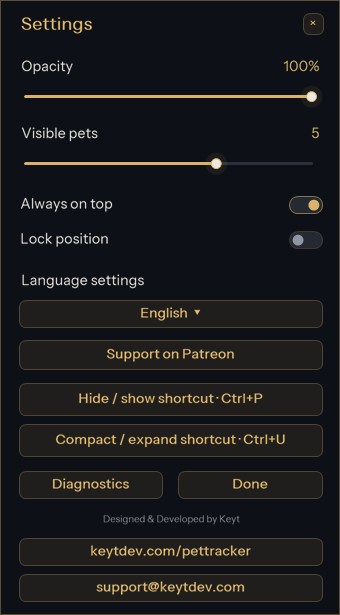
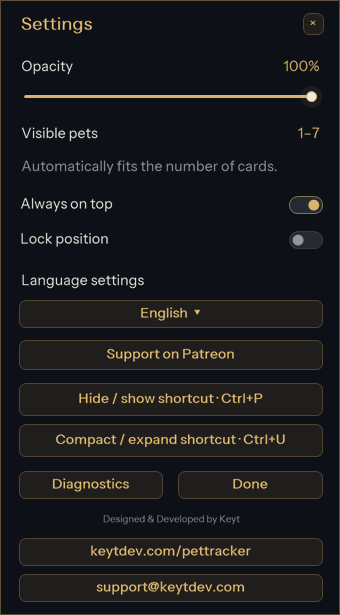
Release 1.2.9: automatic card height and 85-100 percent opacity

Changed region(s): [[0.0588, 0.1854, 0.9412, 0.278]]

diff --git a/src/PetTracker.App/HelpText.cs b/src/PetTracker.App/HelpText.cs
@@ -4,6 +4,7 @@ public static class HelpText
 {
     private static readonly Dictionary<string,string[]> Texts=new()
     {
+        ["autoHeight"]=["Kart sayısına göre otomatik boyutlanır.","Automatically fits the number of cards.","Passt sich automatisch der Kartenzahl an.","Размер автоматически следует числу карточек.","Se ajusta automáticamente al número de tarjetas.","S’adapte automatiquement au nombre de cartes.","Ajusta-se automaticamente ao número de cartões.","يتغير الحجم تلقائياً حسب عدد البطاقات.","कार्ड की संख्या के अनुसार आकार अपने आप बदलता है।","自动适应卡片数量。"],
         ["farmTitle"]=["Farmlanabilir petler","Farmable pets","Farmbare Pets","Питомцы для фарма","Mascotas farmeables","Pets à farmer","Pets para farmar","حيوانات قابلة للتجميع","फ़ार्म किए जा सकने वाले पेट","可刷取宠物"],
         ["farm"]=["Pet Atlası’nda Farmlanabilir petler kategorisini seç. Bölge filtresiyle o haritadaki petleri gör. Tüm farmlanabilir konumları göster seçeneği, seçili haritadaki bütün farm noktalarını birlikte gösterir. Noktalar kayıtlı konumlardır; canlı spawn garantisi değildir.","Choose Farmable pets in Pet Atlas, then filter by region. Show all farmable locations displays every recorded farming point on the selected map together. These are recorded locations, not a guarantee of a live spawn.","Im Pet Atlas Farmbare Pets und eine Region wählen. Alle Farm-Orte anzeigen blendet sämtliche gespeicherten Farm-Punkte der gewählten Karte ein. Gespeicherte Orte garantieren keinen aktuellen Spawn.","В Атласе выберите питомцев для фарма и регион. «Все места фарма» показывает вместе все записанные точки выбранной карты. Это сохранённые места, а не гарантия живого спавна.","Elige Mascotas farmeables y una región en el Atlas. Mostrar todas las ubicaciones reúne los puntos registrados del mapa elegido. No garantiza que haya un enemigo vivo.","Choisissez les pets à farmer et une région dans l’Atlas. Afficher tous les lieux réunit les points enregistrés de la carte sélectionnée. Ces lieux ne garantissent pas une apparition en direct.","Escolha pets para farmar e uma região no Atlas. Mostrar todos os locais reúne os pontos registrados no mapa selecionado. Os locais não garantem um spawn ativo.","اختر الحيوانات القابلة للتجميع ثم المنطقة في الأطلس. إظهار جميع المواقع يعرض النقاط المسجلة على الخريطة المختارة معاً. المواقع لا تضمن وجود عدو حي.","एटलस में फ़ार्म योग्य पेट और क्षेत्र चुनें। सभी फ़ार्म स्थान विकल्प चुने मानचित्र के दर्ज स्थान एक साथ दिखाता है। ये लाइव स्पॉन की गारंटी नहीं हैं।","在图鉴中选择可刷取宠物，再筛选地区。显示全部刷取位置会同时显示当前地图的所有已记录地点。这些地点不保证当前有怪物。"],
         ["regionsTitle"]=["Bölge ve elde etme bilgileri","Regions and acquisition","Regionen und Bezugsquellen","Регионы и получение","Regiones y obtención","Régions et obtention","Regiões e obtenção","المناطق وطرق الحصول","क्षेत्र और प्राप्ति","地区与获取方式"],
@@ -19,7 +20,7 @@ public static class HelpText
         ["identityTitle"]=["Önce eşitle","Sync first","Zuerst synchronisieren","Сначала синхронизация","Sincroniza primero","Synchronisez d’abord","Sincronize primeiro","زامن أولاً","पहले सिंक करें","先同步"],
         ["identity"]=["Tracker açıkken karakter seçimine dönüp giriş yap. Kırmızı uyarı varsa sayaç yaklaşık olabilir; yeni collection gelince düzelir.","With the tracker open, relog through Character Select. A red warning means counts may be inaccurate; a new collection corrects them.","Mit offenem Tracker über die Charakterauswahl neu einloggen. Rot bedeutet mögliche Ungenauigkeit; eine neue Sammlung korrigiert sie.","Войдите через выбор персонажа при открытом трекере. Красное предупреждение: счёт может быть неточным; новая коллекция исправит его.","Vuelve a entrar desde selección de personaje con el tracker abierto. La alerta roja indica posibles errores; una nueva colección los corrige.","Reconnectez-vous via la sélection du personnage, tracker ouvert. Un avertissement rouge signale une incertitude ; la nouvelle collection la corrige.","Entre novamente pela seleção de personagem com o tracker aberto. O aviso vermelho indica possível imprecisão; a nova coleção corrige.","أعد الدخول من اختيار الشخصية والمتتبع مفتوح. التحذير الأحمر يعني احتمال عدم دقة العداد؛ مجموعة جديدة تصححه.","ट्रैकर खुला रखकर चरित्र चयन से दोबारा प्रवेश करें। लाल चेतावनी पर गिनती गलत हो सकती है; नया संग्रह उसे सुधारता है।","打开追踪器后从角色选择重新登录。红色警告表示计数可能不准确；新的收藏数据会校正。"],
         ["cardsTitle"]=["Kartlarını yönet","Manage your cards","Karten verwalten","Управляйте карточками","Gestiona tus tarjetas","Gérez vos cartes","Gerencie seus cartões","إدارة البطاقات","कार्ड व्यवस्थित करें","管理卡片"],
-        ["cards"]=["Pin kartı sabit tutar. Pini kaldırmak kartı silmez; Delete/Clear kaldırır. Sol oklarla sırala. Yeni petler pencereyi en fazla 7 karta büyütür.","Pin keeps a card. Unpin does not remove it; Delete/Clear does. Reorder with the left arrows. New pets grow the window up to 7 cards.","Pin hält die Karte. Entpinnen löscht sie nicht; Delete/Clear schon. Links sortieren. Neue Pets vergrößern auf maximal 7 Karten.","Закрепление сохраняет карточку. Открепление не удаляет; Delete/Clear удаляет. Порядок — стрелками слева. Максимум 7 видимых карточек.","Fijar conserva la tarjeta. Desfijar no la elimina; Delete/Clear sí. Ordena con las flechas. La ventana crece hasta 7 tarjetas.","Épingler conserve la carte. Désépingler ne la supprime pas ; Delete/Clear oui. Triez avec les flèches. Jusqu’à 7 cartes visibles.","Fixar mantém o cartão. Desafixar não remove; Delete/Clear remove. Ordene pelas setas. A janela cresce até 7 cartões.","التثبيت يبقي البطاقة. إلغاء التثبيت لا يحذفها؛ Delete/Clear يحذفها. رتّب بالأسهم. تكبر النافذة حتى 7 بطاقات.","पिन कार्ड रखता है। अनपिन से नहीं हटता; Delete/Clear से हटता है। बाएँ तीर से क्रम बदलें। अधिकतम 7 कार्ड दिखेंगे।","固定可保留卡片。取消固定不会移除；Delete/Clear 才会移除。用左侧箭头排序。窗口最多显示7张卡片。"],
+        ["cards"]=["Pin kartı sabit tutar. Pini kaldırmak kartı silmez; Delete/Clear kaldırır. Sol oklarla sırala. Pencere kart sayısına göre 1–7 kart arasında büyür ve küçülür; boşken 1 kartlık kalır.","Pin keeps a card. Unpin does not remove it; Delete/Clear does. Reorder with the left arrows. The window grows and shrinks to fit 1–7 cards; empty stays one card tall.","Pin hält die Karte. Entpinnen löscht sie nicht; Delete/Clear schon. Links sortieren. Das Fenster wächst und schrumpft passend für 1–7 Karten; leer bleibt es eine Karte hoch.","Закрепление сохраняет карточку. Открепление не удаляет; Delete/Clear удаляет. Порядок — стрелками слева. Окно растёт и уменьшается под 1–7 карточек; пустое остаётся высотой в одну карточку.","Fijar conserva la tarjeta. Desfijar no la elimina; Delete/Clear sí. Ordena con las flechas. La ventana crece y se reduce entre 1 y 7 tarjetas; vacía mantiene altura de una.","Épingler conserve la carte. Désépingler ne la supprime pas ; Delete/Clear oui. Triez avec les flèches. La fenêtre grandit et rétrécit pour 1 à 7 cartes ; vide, elle garde la hauteur d’une carte.","Fixar mantém o cartão. Desafixar não remove; Delete/Clear remove. Ordene pelas setas. A janela cresce e diminui entre 1 e 7 cartões; vazia, mantém altura de um.","التثبيت يبقي البطاقة. إلغاء التثبيت لا يحذفها؛ Delete/Clear يحذفها. رتّب بالأسهم. تكبر النافذة وتصغر لتناسب 1–7 بطاقات؛ فارغة تبقى بارتفاع بطاقة واحدة.","पिन कार्ड रखता है। अनपिन से नहीं हटता; Delete/Clear से हटता है। बाएँ तीर से क्रम बदलें। खिड़की 1–7 कार्ड के अनुसार बढ़ती और घटती है; खाली होने पर एक कार्ड जितनी रहती है।","固定可保留卡片。取消固定不会移除；Delete/Clear 才会移除。用左侧箭头排序。窗口随卡片数量在1至7张之间自动增减；无卡片时保留一张卡片的高度。"],
         ["atlasTitle"]=["Petleri bul","Find your pets","Pets finden","Найдите питомцев","Encuentra tus mascotas","Trouvez vos pets","Encontre seus pets","اعثر على الحيوانات","पेट खोजें","查找宠物"],
         ["atlas"]=["Dünya ikonuna bas. Peti seçerek bilgi kartını aç; Haritada göster ile bölge seç. Tüm farmlanabilir konumları ve yuvarlak portreleri tiklerden aç.","Click the globe. Select a pet for its info card; Show on map chooses a region. Enable all farmable locations and circular portraits with the checkboxes.","Globus anklicken. Pet wählen für Infos; Auf Karte zeigen wählt die Region. Farm-Orte und runde Porträts per Häkchen aktivieren.","Нажмите глобус. Выберите питомца для сведений; «На карте» выбирает регион. Фарм-места и портреты включаются флажками.","Pulsa el globo. Selecciona una mascota para ver su ficha; Mostrar en mapa elige región. Activa ubicaciones y retratos con las casillas.","Cliquez sur le globe. Choisissez un pet pour sa fiche ; Afficher sur la carte choisit la région. Activez les lieux et portraits via les cases.","Clique no globo. Selecione um pet para informações; Mostrar no mapa escolhe a região. Ative locais e retratos nas caixas.","اضغط الكرة الأرضية. اختر حيواناً لبطاقته؛ العرض على الخريطة يختار المنطقة. فعّل مواقع التجميع والصور من المربعات.","ग्लोब दबाएँ। जानकारी के लिए पेट चुनें; मानचित्र विकल्प से क्षेत्र चुनें। चेकबॉक्स से सभी फ़ार्म स्थान और गोल चित्र दिखाएँ।","点击地球图标。选择宠物查看信息卡；在地图显示可选择区域。勾选显示全部可收集位置和圆形头像。"],
         ["keysTitle"]=["Gizle veya küçült","Hide or compact","Ausblenden oder verkleinern","Скрыть или свернуть","Oculta o reduce","Masquer ou réduire","Oculte ou reduza","إخفاء أو تصغير","छिपाएँ या छोटा करें","隐藏或缩小"],

diff --git a/src/PetTracker.App/OverlayForm.cs b/src/PetTracker.App/OverlayForm.cs
@@ -37,7 +37,6 @@ public sealed class OverlayForm : Form
     private string? handbookLanguage;
     private float scroll,scrollTarget;
     private int wheelDelta;
-    private HashSet<int> lastVisible=[];
     private double lastPump;
     private double revealStart;private bool revealing;
     private int hoveredCard=-1;
@@ -157,6 +156,7 @@ public sealed class OverlayForm : Form
     }
     private void ApplyAppearance()
     {
+        preferences.VisibleCards=OverlayHeight.Fit(visibleIds.Length);
         preferences.Validate();
         if(compactMode){ApplyCompactSize();return;}
         var width=(int)Math.Round(FixedWidth*DeviceDpi/96f);
@@ -193,14 +193,9 @@ public sealed class OverlayForm : Form
         }
         if(m.Msg==0x112&&compactMode&&(m.WParam.ToInt64()&0xFFF0)==0xF000)return;
         if(m.Msg==0x112&&preferences is not null&&preferences.Locked&&(m.WParam.ToInt64()&0xFFF0)==0xF010)return;
-        if(m.Msg==0x20&&crystal is not null){var pointer=PointToClient(MousePosition);Cursor.Current=pointer.Y>=ClientSize.Height-18&&!compactMode?Cursors.SizeNS:hovered.Length>0?brightCrystal.Pointer:crystal.Pointer;m.Result=(IntPtr)1;return;}
+        if(m.Msg==0x20&&crystal is not null){Cursor.Current=hovered.Length>0?brightCrystal.Pointer:crystal.Pointer;m.Result=(IntPtr)1;return;}
         base.WndProc(ref m);
-        if(m.Msg==0x84&&m.Result.ToInt32()==1&&!compactMode)
-        {
-            var packed=m.LParam.ToInt64();var point=PointToClient(new(unchecked((short)(packed&0xffff)),unchecked((short)((packed>>16)&0xffff))));
-            if(point.Y>=ClientSize.Height-18)m.Result=(IntPtr)15;
-        }
-        if(m.Msg==0x232&&preferences is not null){try{if(!compactMode){preferences.VisibleCards=OverlayHeight.CardsFromPixels((int)Math.Round(Height/(DeviceDpi/96f)));ApplyAppearance();}EnsureVisible();SaveAppearance();}catch(Exception ex){Error(ex);}}
+        if(m.Msg==0x232&&preferences is not null){try{if(!compactMode)ApplyAppearance();EnsureVisible();SaveAppearance();}catch(Exception ex){Error(ex);}}
     }
     protected override void OnDpiChanged(DpiChangedEventArgs e){base.OnDpiChanged(e);if(compactMode)ApplyCompactSize();else ApplyAppearance();EnsureVisible();}
     protected override void OnShown(EventArgs e)
@@ -216,13 +211,11 @@ public sealed class OverlayForm : Form
         var ids=controller.Tracker.HasCurrent?controller.Tracker.VisibleIds.ToArray():[];
         var orderChanged=!visibleIds.SequenceEqual(ids);
         visibleIds=ids;
-        if(ids.Any(id=>!lastVisible.Contains(id)))
-        {
-            var slots=OverlayHeight.Grow(preferences.VisibleCards,ids.Length);
-            if(slots!=preferences.VisibleCards){preferences.VisibleCards=slots;ApplyAppearance();EnsureVisible();SaveAppearance();}
-        }
-        if(orderChanged){lastVisible=ids.ToHashSet();motion.Sync(ids,Now);timer.Interval=8;}
+        var slots=OverlayHeight.Fit(ids.Length);
+        if(slots!=preferences.VisibleCards){preferences.VisibleCards=slots;ApplyAppearance();EnsureVisible();SaveAppearance();}
+        if(orderChanged){motion.Sync(ids,Now);timer.Interval=8;}
         scrollTarget=SnapScroll(scrollTarget);
+        scroll=Math.Clamp(scroll,0,MaximumScroll);
     }
     protected override void OnMouseWheel(MouseEventArgs e){base.OnMouseWheel(e);wheelDelta+=e.Delta;var steps=wheelDelta/120;wheelDelta%=120;scrollTarget=SnapScroll(scrollTarget-steps*(CardHeight+CardGap));timer.Interval=8;}
     protected override void OnPaint(PaintEventArgs e)
@@ -272,7 +265,6 @@ public sealed class OverlayForm : Form
         using var dot=new SolidBrush(warning?warningColor:exact?Color.FromArgb(139,192,154):PremiumTheme.Gold);g.FillEllipse(dot,12,footer+11,4,4);
         var status=!controller.LiveMode?T("demo"):exact?T("exact"):controller.Session.IdentityKnown?T("uncertain"):T("snapshot");
         DrawText(g,warning?T("resyncWarning"):status,new(23,footer+3,DesignWidth-40,warning?32:18),warning?7.5f:6.8f,warning?warningColor:exact?PremiumTheme.Ink:PremiumTheme.Gold);
-        using(var grip=new Pen(Color.FromArgb(hovered=="resize"?210:110,PremiumTheme.Gold),1.4f)){var gx=DesignWidth/2f;g.DrawLine(grip,gx-12,LogicalHeight-4,gx+12,LogicalHeight-4);g.DrawLine(grip,gx-7,LogicalHeight-7,gx+7,LogicalHeight-7);}
         if(!warning){using var creditRule=new Pen(Color.FromArgb(24,PremiumTheme.Gold));g.DrawLine(creditRule,43,footer+23,DesignWidth-43,footer+23);
         PremiumTheme.Text(g,"Designed & Developed by Keyt",new(15,footer+24,DesignWidth-30,11),5.9f,Color.FromArgb(149,142,136),"en",align:StringAlignment.Center);}
     }
@@ -382,7 +374,6 @@ public sealed class OverlayForm : Form
     {
         base.OnMouseMove(e);var point=new PointF(e.X/ScaleFactor,e.Y/ScaleFactor);
         if(dragScroll){scrollTarget=SnapScroll(Math.Clamp((point.Y-HeaderHeight)/Viewport,0,1)*MaximumScroll);return;}
-        if(!compactMode&&e.Y>=ClientSize.Height-18){hoveredCard=-1;hovered="resize";Cursor=Cursors.SizeNS;tips.SetToolTip(this,StartupText.Get(Language,"resize"));return;}
         var hit=Hit(point);hoveredCard=hit.Id>0?hit.Id:-1;var next=hit.Action is null or "disabled"?"":hit.Action+hit.Id;
         if(next!=hovered)
         {

diff --git a/tests/PetTracker.UiTests/OverlayRenderTests.cs b/tests/PetTracker.UiTests/OverlayRenderTests.cs
@@ -11,6 +11,62 @@ namespace PetTracker.UiTests;
 public sealed class OverlayRenderTests(ITestOutputHelper output)
 {
     [Fact]
+    public void OpacitySliderUsesItsWholeTrackFor85To100Percent()
+    {
+        OnSta(()=>
+        {
+            var preferences=new OverlayPreferences();var changes=0;
+            using var settings=new OverlaySettingsForm(preferences,Cursors.Default,7,()=>changes++,()=>{});
+            var slider=Assert.Single(settings.Controls.OfType<PremiumSlider>());
+            Assert.Equal(85,slider.Minimum);Assert.Equal(100,slider.Maximum);
+            var update=typeof(PremiumSlider).GetMethod("UpdateValue",BindingFlags.Instance|BindingFlags.NonPublic)!;
+            update.Invoke(slider,[0]);Assert.Equal(85,preferences.OpacityPercent);
+            update.Invoke(slider,[slider.Width/2]);Assert.InRange(preferences.OpacityPercent,92,93);
+            update.Invoke(slider,[slider.Width]);Assert.Equal(100,preferences.OpacityPercent);
+            Assert.Equal(3,changes);
+        });
+    }
+
+    [Fact]
+    public void HeightShrinksAfterClearAndGrowsForManualOrSoulCardsWithoutChangingCounters()
+    {
+        OnSta(()=>
+        {
+            var folder=Path.Combine(Path.GetTempPath(),"A2AutoHeight-"+Guid.NewGuid());Directory.CreateDirectory(folder);
+            try
+            {
+                new OverlayPreferences{VisibleCards=7,Locked=true}.Save(Path.Combine(folder,"overlay-preferences.json"));
+                using var form=new OverlayForm(false,folder,preview:true);_=form.Handle;
+                var tracker=form.Controller.Tracker;
+                var sync=typeof(OverlayForm).GetMethod("SyncCards",BindingFlags.Instance|BindingFlags.NonPublic)!;
+                var prefs=(OverlayPreferences)typeof(OverlayForm).GetField("preferences",BindingFlags.Instance|BindingFlags.NonPublic)!.GetValue(form)!;
+                void Expect(int count)
+                {
+                    sync.Invoke(form,null);Assert.Equal(count,tracker.VisibleIds.Count());
+                    Assert.Equal(OverlayHeight.Fit(count),prefs.VisibleCards);
+                    Assert.Equal((int)(OverlayHeight.Pixels(OverlayHeight.Fit(count))*form.DeviceDpi/96f),form.Height);
+                }
+                Expect(5);
+                var maxTotal=tracker.KnownTotal(1007);tracker.Dismiss(1178);Expect(4);
+                tracker.Dismiss(1007);Expect(3);Assert.Equal(maxTotal,tracker.KnownTotal(1007));
+                foreach(var id in tracker.VisibleIds.ToArray())tracker.Dismiss(id);Expect(0);
+                tracker.Pin(1124,true);Expect(1);tracker.Dismiss(1124);Expect(0);
+                tracker.Gain(new(tracker.Current.Scope,"demo",1,1114,1));Expect(1);
+                foreach(var id in form.Controller.Catalog.Pets.Keys.Take(9))tracker.Pin(id,true);Expect(tracker.VisibleIds.Count());Assert.Equal(7,prefs.VisibleCards);
+                typeof(OverlayForm).GetField("scroll",BindingFlags.Instance|BindingFlags.NonPublic)!.SetValue(form,142f);
+                typeof(OverlayForm).GetMethod("ToggleCompact",BindingFlags.Instance|BindingFlags.NonPublic)!.Invoke(form,null);
+                var compact=form.Size;
+                foreach(var id in tracker.VisibleIds.ToArray())tracker.Dismiss(id);sync.Invoke(form,null);
+                Assert.Equal(compact,form.Size);Assert.Equal(1,prefs.VisibleCards);
+                Assert.Equal(0f,(float)typeof(OverlayForm).GetField("scroll",BindingFlags.Instance|BindingFlags.NonPublic)!.GetValue(form)!);
+                typeof(OverlayForm).GetMethod("ToggleCompact",BindingFlags.Instance|BindingFlags.NonPublic)!.Invoke(form,null);Expect(0);
+                Assert.False(form.Controller.Running);
+            }
+            finally{Directory.Delete(folder,true);}
+        });
+    }
+
+    [Fact]
     public void TrackerAndSetupOpenAndReuseIllustratedHandbook()
     {
         OnSta(()=>

diff --git a/src/PetTracker.App/OverlaySettingsForm.cs b/src/PetTracker.App/OverlaySettingsForm.cs
@@ -24,10 +24,10 @@ public sealed class OverlaySettingsForm : Form
         var title=new PremiumLabel { Location=new(18,9),Size=new(268,31),AutoSize=false,ForeColor=PremiumTheme.Gold,Font=new(UiText.FontFamily(preferences.Language),13,FontStyle.Bold) };
         var opacityLabel=new PremiumLabel { Location=new(19,55),Size=new(226,24),AutoSize=false };
         var opacityValue=new PremiumLabel { Location=new(252,55),Size=new(70,24),AutoSize=false,TextAlign=ContentAlignment.MiddleRight,ForeColor=PremiumTheme.Gold,Text=preferences.OpacityPercent+"%" };
-        var opacity=new PremiumSlider { Location=new(14,79),Size=new(308,34),Value=preferences.OpacityPercent,Cursor=cursor };
+        var opacity=new PremiumSlider { Minimum=PetTracker.Core.OverlayPreferences.MinimumOpacityPercent,Maximum=PetTracker.Core.OverlayPreferences.MaximumOpacityPercent,Location=new(14,79),Size=new(308,34),Value=preferences.OpacityPercent,Cursor=cursor };
         var heightLabel=new PremiumLabel { Location=new(19,122),Size=new(226,24),AutoSize=false };
-        var heightValue=new PremiumLabel { Location=new(252,122),Size=new(70,24),AutoSize=false,TextAlign=ContentAlignment.MiddleRight,ForeColor=PremiumTheme.Gold,Text=preferences.VisibleCards.ToString() };
-        var height=new PremiumSlider { Minimum=1,Maximum=7,Location=new(14,146),Size=new(308,34),Value=preferences.VisibleCards,Cursor=cursor };
+        var heightValue=new PremiumLabel { Location=new(252,122),Size=new(70,24),AutoSize=false,TextAlign=ContentAlignment.MiddleRight,ForeColor=PremiumTheme.Gold,Text="1–7" };
+        var height=new PremiumLabel { Location=new(19,150),Size=new(303,34),AutoSize=false,ForeColor=PremiumTheme.Muted };
         var top=new PremiumToggle { Location=new(18,190),Size=new(305,29),Checked=preferences.AlwaysOnTop,Cursor=cursor };
         var locked=new PremiumToggle { Location=new(18,225),Size=new(305,29),Checked=preferences.Locked,Cursor=cursor };
         var languageLabel=new PremiumLabel { Location=new(19,269),Size=new(303,24),AutoSize=false };
@@ -67,13 +67,13 @@ public sealed class OverlaySettingsForm : Form
             foreach(var label in new[]{title,opacityLabel,opacityValue,heightLabel,heightValue,languageLabel})label.TextLanguage=lang;
             title.Font=new(UiText.FontFamily(lang),13,FontStyle.Bold);
             title.Text=UiText.Get(lang,"settings");opacityLabel.Text=UiText.Get(lang,"opacity");heightLabel.Text=UiText.Get(lang,"visibleCards");
+            height.TextLanguage=lang;height.Text=HelpText.Get(lang,"autoHeight");
             top.Text=UiText.Get(lang,"top");locked.Text=UiText.Get(lang,"lock");languageLabel.Text=UiText.Get(lang,"language");
             diagnostic.Text=UiText.Get(lang,"logs");done.Text=UiText.Get(lang,"done");RefreshHotkeyLabels();diagnostic.TextLanguage=lang;done.TextLanguage=lang;top.TextLanguage=lang;locked.TextLanguage=lang;Invalidate();
             languages.Text=UiText.Languages.First(l=>l.Code==lang).Name+"  ▾";languages.TextLanguage=lang;
             support.Text=UiText.Get(lang,"support");support.TextLanguage=lang;
         }
         opacity.ValueChanged+=(_,_)=>{preferences.OpacityPercent=opacity.Value;opacityValue.Text=opacity.Value+"%";changed();};
-        height.ValueChanged+=(_,_)=>{preferences.VisibleCards=height.Value;heightValue.Text=height.Value.ToString();changed();};
         top.CheckedChanged+=(_,_)=>{preferences.AlwaysOnTop=top.Checked;changed();};locked.CheckedChanged+=(_,_)=>{preferences.Locked=locked.Checked;changed();};
         if(riftSettings is not null)
         {

diff --git a/src/PetTracker.App/Program.cs b/src/PetTracker.App/Program.cs
@@ -54,13 +54,13 @@ static class Program
                 using var demo = new OverlayForm(false, Path.Combine(folder, "Demo"), preview:true);
                 live.CreateControl(); demo.CreateControl();
                 var initialWidth = live.Width; live.Width += 100;
-                if (live.Width != initialWidth || live.Height < 220 || live.Width != (int)Math.Round(OverlayForm.FixedWidth*live.DeviceDpi/96f) || !live.TopMost || live.Opacity < .3 || live.Opacity > 1) throw new InvalidOperationException("Overlay genişlik/yükseklik/üstte kalma/saydamlık kontrolü başarısız");
+                if (live.Width != initialWidth || live.Height < 220 || live.Width != (int)Math.Round(OverlayForm.FixedWidth*live.DeviceDpi/96f) || !live.TopMost || live.Opacity < .85 || live.Opacity > 1) throw new InvalidOperationException("Overlay genişlik/yükseklik/üstte kalma/saydamlık kontrolü başarısız");
                 live.Height += 60;
                 if (live.Width != initialWidth) throw new InvalidOperationException("Yükseklik değişimi genişliği etkiledi");
                 var lockedFolder=Path.Combine(folder,"Locked"); Directory.CreateDirectory(lockedFolder);
                 File.WriteAllText(Path.Combine(lockedFolder,"overlay-preferences.json"),"{\"Locked\":true,\"OpacityPercent\":20,\"Height\":610}");
                 using var locked=new OverlayForm(true,lockedFolder);
-                if (!locked.PositionLocked || Math.Abs(locked.Opacity-.3)>.001) throw new InvalidOperationException("Kilit/saydamlık alt sınırı başarısız");
+                if (!locked.PositionLocked || Math.Abs(locked.Opacity-.85)>.001) throw new InvalidOperationException("Kilit/saydamlık alt sınırı başarısız");
                 locked.CheckLockedMove();
                 if(!UiText.Complete||!StartupText.Complete||!TermsContent.Complete||UiText.Languages.Length!=10)throw new InvalidOperationException("Dil sözlüğü eksik.");
                 foreach(var (code,_) in UiText.Languages)

diff --git a/tests/PetTracker.Tests/InstallationTests.cs b/tests/PetTracker.Tests/InstallationTests.cs
@@ -34,7 +34,7 @@ public sealed class InstallationTests
         {
             var preferences=new OverlayPreferences{Language="ru",OpacityPercent=65,VisibleCards=5,Locked=true,AlwaysOnTop=false,Left=350,Top=180};preferences.Save(settingsPath);
             new InstallationProfile("ru","v1",DateTimeOffset.UtcNow).Save(receiptPath);
-            var saved=OverlayPreferences.Load(settingsPath,_=>{});Assert.Equal("ru",saved.Language);Assert.Equal(65,saved.OpacityPercent);Assert.Equal(OverlayHeight.Pixels(5),saved.Height);Assert.Equal(5,saved.VisibleCards);Assert.True(saved.Locked);Assert.False(saved.AlwaysOnTop);Assert.Equal(350,saved.Left);
+            var saved=OverlayPreferences.Load(settingsPath,_=>{});Assert.Equal("ru",saved.Language);Assert.Equal(85,saved.OpacityPercent);Assert.Equal(OverlayHeight.Pixels(5),saved.Height);Assert.Equal(5,saved.VisibleCards);Assert.True(saved.Locked);Assert.False(saved.AlwaysOnTop);Assert.Equal(350,saved.Left);
             saved.Language="es";saved.Save(settingsPath);Assert.Equal("es",OverlayPreferences.Load(settingsPath,_=>{}).Language);Assert.True(InstallationProfile.Load(receiptPath)!.IsValid);
             // On startup preferences take precedence over the original installation language.
             var gate=new StartupGate();gate.ConfigureInstallation(OverlayPreferences.Load(settingsPath,_=>{}).Language);Assert.Equal("es",gate.Language);

diff --git a/tests/PetTracker.Tests/OpacityRangeTests.cs b/tests/PetTracker.Tests/OpacityRangeTests.cs
@@ -1,0 +1,20 @@
+using PetTracker.Core;
+namespace PetTracker.Tests;
+
+public sealed class OpacityRangeTests
+{
+    [Theory]
+    [InlineData(0,85)][InlineData(30,85)][InlineData(84,85)][InlineData(85,85)]
+    [InlineData(92,92)][InlineData(100,100)][InlineData(150,100)]
+    public void SavedOpacityMigratesIntoReadableRange(int oldValue,int expected)
+    {
+        var path=Path.GetTempFileName();
+        try
+        {
+            File.WriteAllText(path,$"{{\"LayoutVersion\":4,\"OpacityPercent\":{oldValue}}}");
+            var preferences=OverlayPreferences.Load(path,_=>{});Assert.Equal(expected,preferences.OpacityPercent);
+            preferences.Save(path);Assert.Equal(expected,OverlayPreferences.Load(path,_=>{}).OpacityPercent);
+        }
+        finally{File.Delete(path);}
+    }
+}

diff --git a/src/PetTracker.Core/OverlayPreferences.cs b/src/PetTracker.Core/OverlayPreferences.cs
@@ -4,6 +4,7 @@ namespace PetTracker.Core;
 
 public sealed class OverlayPreferences
 {
+    public const int MinimumOpacityPercent=85,MaximumOpacityPercent=100;
     public int OpacityPercent { get; set; } = 100;
     public bool Locked { get; set; }
     public bool AlwaysOnTop { get; set; } = true;
@@ -33,7 +34,7 @@ public sealed class OverlayPreferences
     public int? MapTop { get; set; }
     public void Validate()
     {
-        OpacityPercent = Math.Clamp(OpacityPercent, 30, 100);
+        OpacityPercent = Math.Clamp(OpacityPercent, MinimumOpacityPercent, MaximumOpacityPercent);
         RiftLeadMinutes = Math.Clamp(RiftLeadMinutes, 1, 120);
         RiftDelivered = (RiftDelivered??[]).TakeLast(32).ToList();
         VisibleCards = OverlayHeight.Clamp(VisibleCards);

diff --git a/src/PetTracker.Core/OverlayHeight.cs b/src/PetTracker.Core/OverlayHeight.cs
@@ -4,6 +4,7 @@ public static class OverlayHeight
 {
     public const int MinimumCards=1,MaximumCards=7,DefaultCards=3;
     public static int Clamp(int cards)=>Math.Clamp(cards,MinimumCards,MaximumCards);
+    public static int Fit(int visiblePets)=>Clamp(visiblePets);
     public static int Pixels(int cards)=>(int)Math.Round((126+71*Clamp(cards))*4d/3);
     public static int CardsFromPixels(int pixels)=>Clamp((int)Math.Round((pixels*3d/4-126)/71));
     public static int Grow(int cards,int visiblePets)=>Clamp(Math.Max(cards,visiblePets));

diff --git a/tests/PetTracker.Tests/AutomaticCardHeightTests.cs b/tests/PetTracker.Tests/AutomaticCardHeightTests.cs
@@ -1,0 +1,11 @@
+using PetTracker.Core;
+namespace PetTracker.Tests;
+
+public sealed class AutomaticCardHeightTests
+{
+    [Theory]
+    [InlineData(0,1)][InlineData(1,1)][InlineData(2,2)][InlineData(3,3)]
+    [InlineData(4,4)][InlineData(7,7)][InlineData(8,7)][InlineData(150,7)]
+    public void FitsVisibleCardsWithOneEmptySlotAndSevenCardCap(int count,int slots)
+        =>Assert.Equal(slots,OverlayHeight.Fit(count));
+}

diff --git a/README.md b/README.md
@@ -20,7 +20,7 @@ Language and terms are configured during installation. Preferences persist; cach
 - Searchable Add Pet menu with incomplete/maxed tabs. Pinning fixes a card; unpinning removes only its pin and keeps the card, including after restarting. Delete/Clear removes the card and pin without deleting progress. A later real soul gain can reactivate it.
 - Up/down arrows reorder cards with animation. Pins, manually retained cards and order are scoped to character/server and persist independently of counters.
 - Fixed width; 1–7 visible cards. New cards automatically grow the full window to seven slots, after which scrolling settles at card boundaries. Position lock is separate from height.
-- 30–100% opacity, Always on top, a movable compact box and a separately movable Settings window. Opening the desktop shortcut again restores the running instance rather than starting a new session.
+- 85–100% opacity, Always on top, a movable compact box and a separately movable Settings window. Opening the desktop shortcut again restores the running instance rather than starting a new session.
 - Ctrl+P hides/restores; Ctrl+U compacts/expands. Settings can change both shortcuts to Ctrl/Alt/Shift plus a letter, digit or F1–F24. Held keys do not repeatedly toggle; conflicting combinations are rejected.
 - New MAX transitions play a subtle sound. MAX cards remain visible; hover and click CLEAR to remove one.
 - Ten languages: Turkish, English, German, Russian, Spanish, French, Portuguese, Arabic, Hindi and Simplified Chinese. Changes apply immediately and are saved.
@@ -95,3 +95,9 @@ Automatic bug submission is deferred until a working mail backend is available. 
 - Expanded the illustrated handbook to eight pages, including farmable pets, regions, acquisition sources and map portraits. Open it from the tracker, Atlas or Setup progress screen.
 - Rift alerts default to enabled; an explicitly saved opt-out remains respected.
 - Uncertain counts keep the red warning while readable gains continue; a validated collection reconciles totals.
+
+## 1.2.9
+
+- Automatically grow and shrink the tracker with visible cards, including Delete/CLEAR. Empty keeps one slot, with a seven-card cap and scrolling beyond seven. Compact mode remains compact.
+- Replace manual height controls with automatic height information in all ten languages.
+- Restrict the full opacity slider to 85–100%; migrate lower saved values to 85%.
